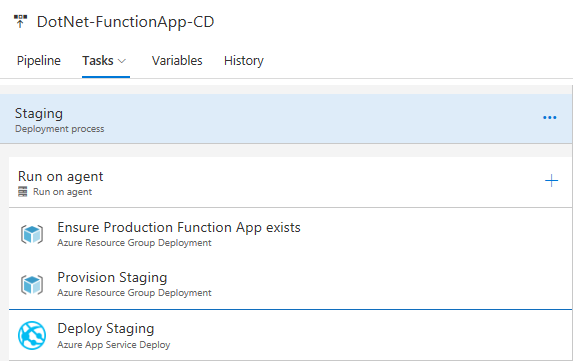
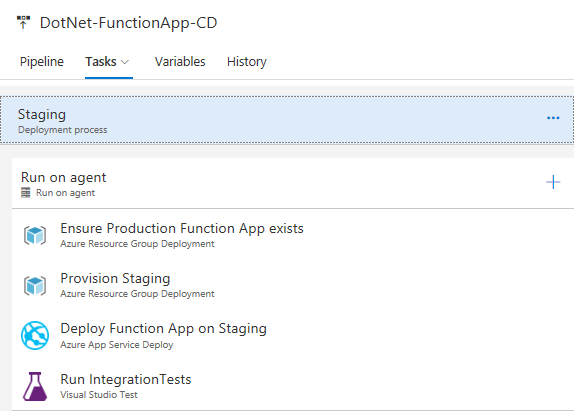
Integrate IntegrationTests within the CI and CD pipelines.

diff --git a/docs/DotNet-FunctionApp-CI.md b/docs/DotNet-FunctionApp-CI.md
@@ -46,7 +46,7 @@ TODO
   - Visual Studio Version = Latest
   - Platform = $(BuildPlatform)
   - Configuration = $(BuildConfiguration)
-- Test Assemblies
+- Run UnitTests
   - Type = Visual Studio Test
   - Version = 2.*
   - Select tests using = Test assemblies
@@ -88,11 +88,11 @@ TODO
   - Version = 2.*
   - Source Folder = $(build.sourcesdirectory)/src/DotNetFunction/bin/$(BuildConfiguration)/net461
   - Content = **
-  - Target Folder = $(build.artifactstagingdirectory)
+  - Target Folder = $(build.artifactstagingdirectory)/function
 - Publish Artifact: function
   - Type = Publish Build Artifacts
   - Version = 1.*
-  - Path to Publish = $(build.artifactstagingdirectory)
+  - Path to Publish = $(build.artifactstagingdirectory)/function
   - Artifact Name = function
   - Artifact Type = Server
 - Publish Artifact: infra
@@ -106,4 +106,16 @@ TODO
   - Version = 1.*
   - Path to Publish = infra/scripts
   - Artifact Name = scripts
+  - Artifact Type = Server
+- Copy Files: integration-tests
+  - Type = Copy Files
+  - Version = 2.*
+  - Source Folder = $(build.sourcesdirectory)/test/DotNetFunction.IntegrationTests/bin/$(BuildConfiguration)
+  - Content = **
+  - Target Folder = $(build.artifactstagingdirectory)/integration-tests
+- Publish Artifact: function
+  - Type = Publish Build Artifacts
+  - Version = 1.*
+  - Path to Publish = $(build.artifactstagingdirectory)/integration-tests
+  - Artifact Name = integration-tests
   - Artifact Type = Server

diff --git a/docs/DotNet-FunctionApp-CD.md b/docs/DotNet-FunctionApp-CD.md
@@ -66,6 +66,15 @@ TODO
   - Package or Folder = $(System.DefaultWorkingDirectory)/DotNet-FunctionApp-CI/function
   - Publish using Web Deploy = true
   - Take App Offline = true
+- Run UnitTests
+  - Type = Visual Studio Test
+  - Version = 2.*
+  - Select tests using = Test assemblies
+  - Test assemblies = \**\$(BuildConfiguration)\*IntegrationTests.dll\n!**\obj\**
+  - Search folder = $(System.DefaultWorkingDirectory)/DotNet-FunctionApp-CI/integration-tests
+  - Test filter criteria = TestCategory=IntegrationTests
+  - Build Platform = $(ReleasePlatform)
+  - Build Configuration = $(ReleaseConfiguration)
 
 ## Production Environment
 
